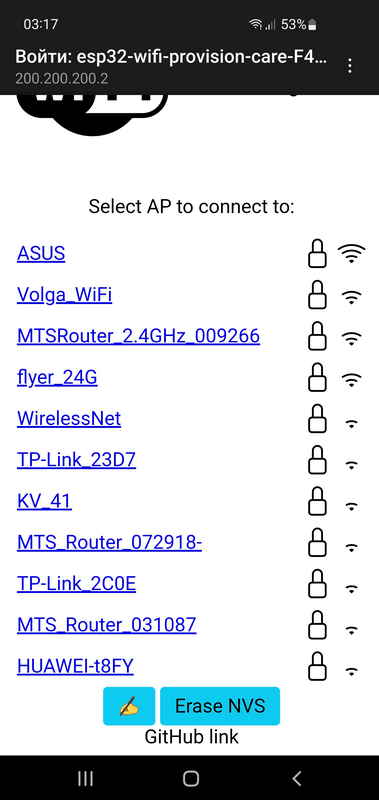
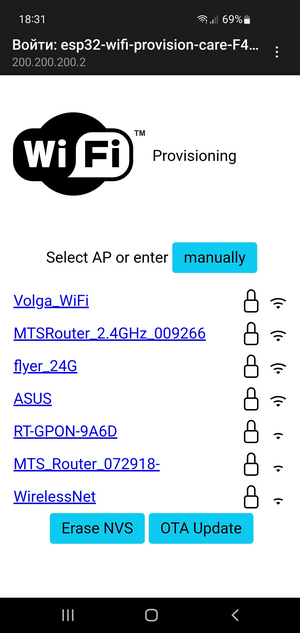
Upload OTA function

diff --git a/README.md b/README.md
@@ -5,8 +5,9 @@ If ESP32 has no saved credentials or ESP32 fails to connect Wi-Fi
 esp32-wifi-provision-care spawns Wi-Fi Access Point with captive portal.
 
 Wi-Fi provisioning page shows Wi-Fi routers near to ESP32.
+Povisioning page allows upload new firmware "over the air".
 
-![1](assets/img1.png) ![2](assets/img2.png)
+![1](assets/img1.png) ![2](assets/img2.png) ![3](assets/img3.png) ![4](assets/img4.png)
 
 How to use.
 
